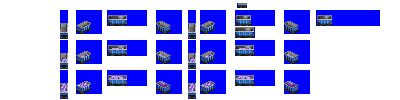
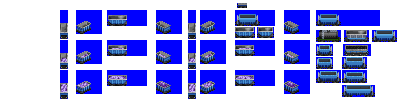
Change: test hopper car lengths

Changed region(s): [[0.78, 0.3, 1.0, 0.99], [0.57, 0.12, 0.69, 0.39], [0.78, 0.12, 0.87, 0.27]]

diff --git a/src/vehicles/hopper_cars.py b/src/vehicles/hopper_cars.py
@@ -13,7 +13,7 @@ def main():
     consist.add_unit(Wagon(consist = consist,
                            capacity_freight = 20,
                            weight = 10,
-                           vehicle_length = 4))
+                           vehicle_length = 6))
 
     consist.add_model_variant(intro_date=0,
                            end_date=global_constants.max_game_date,
